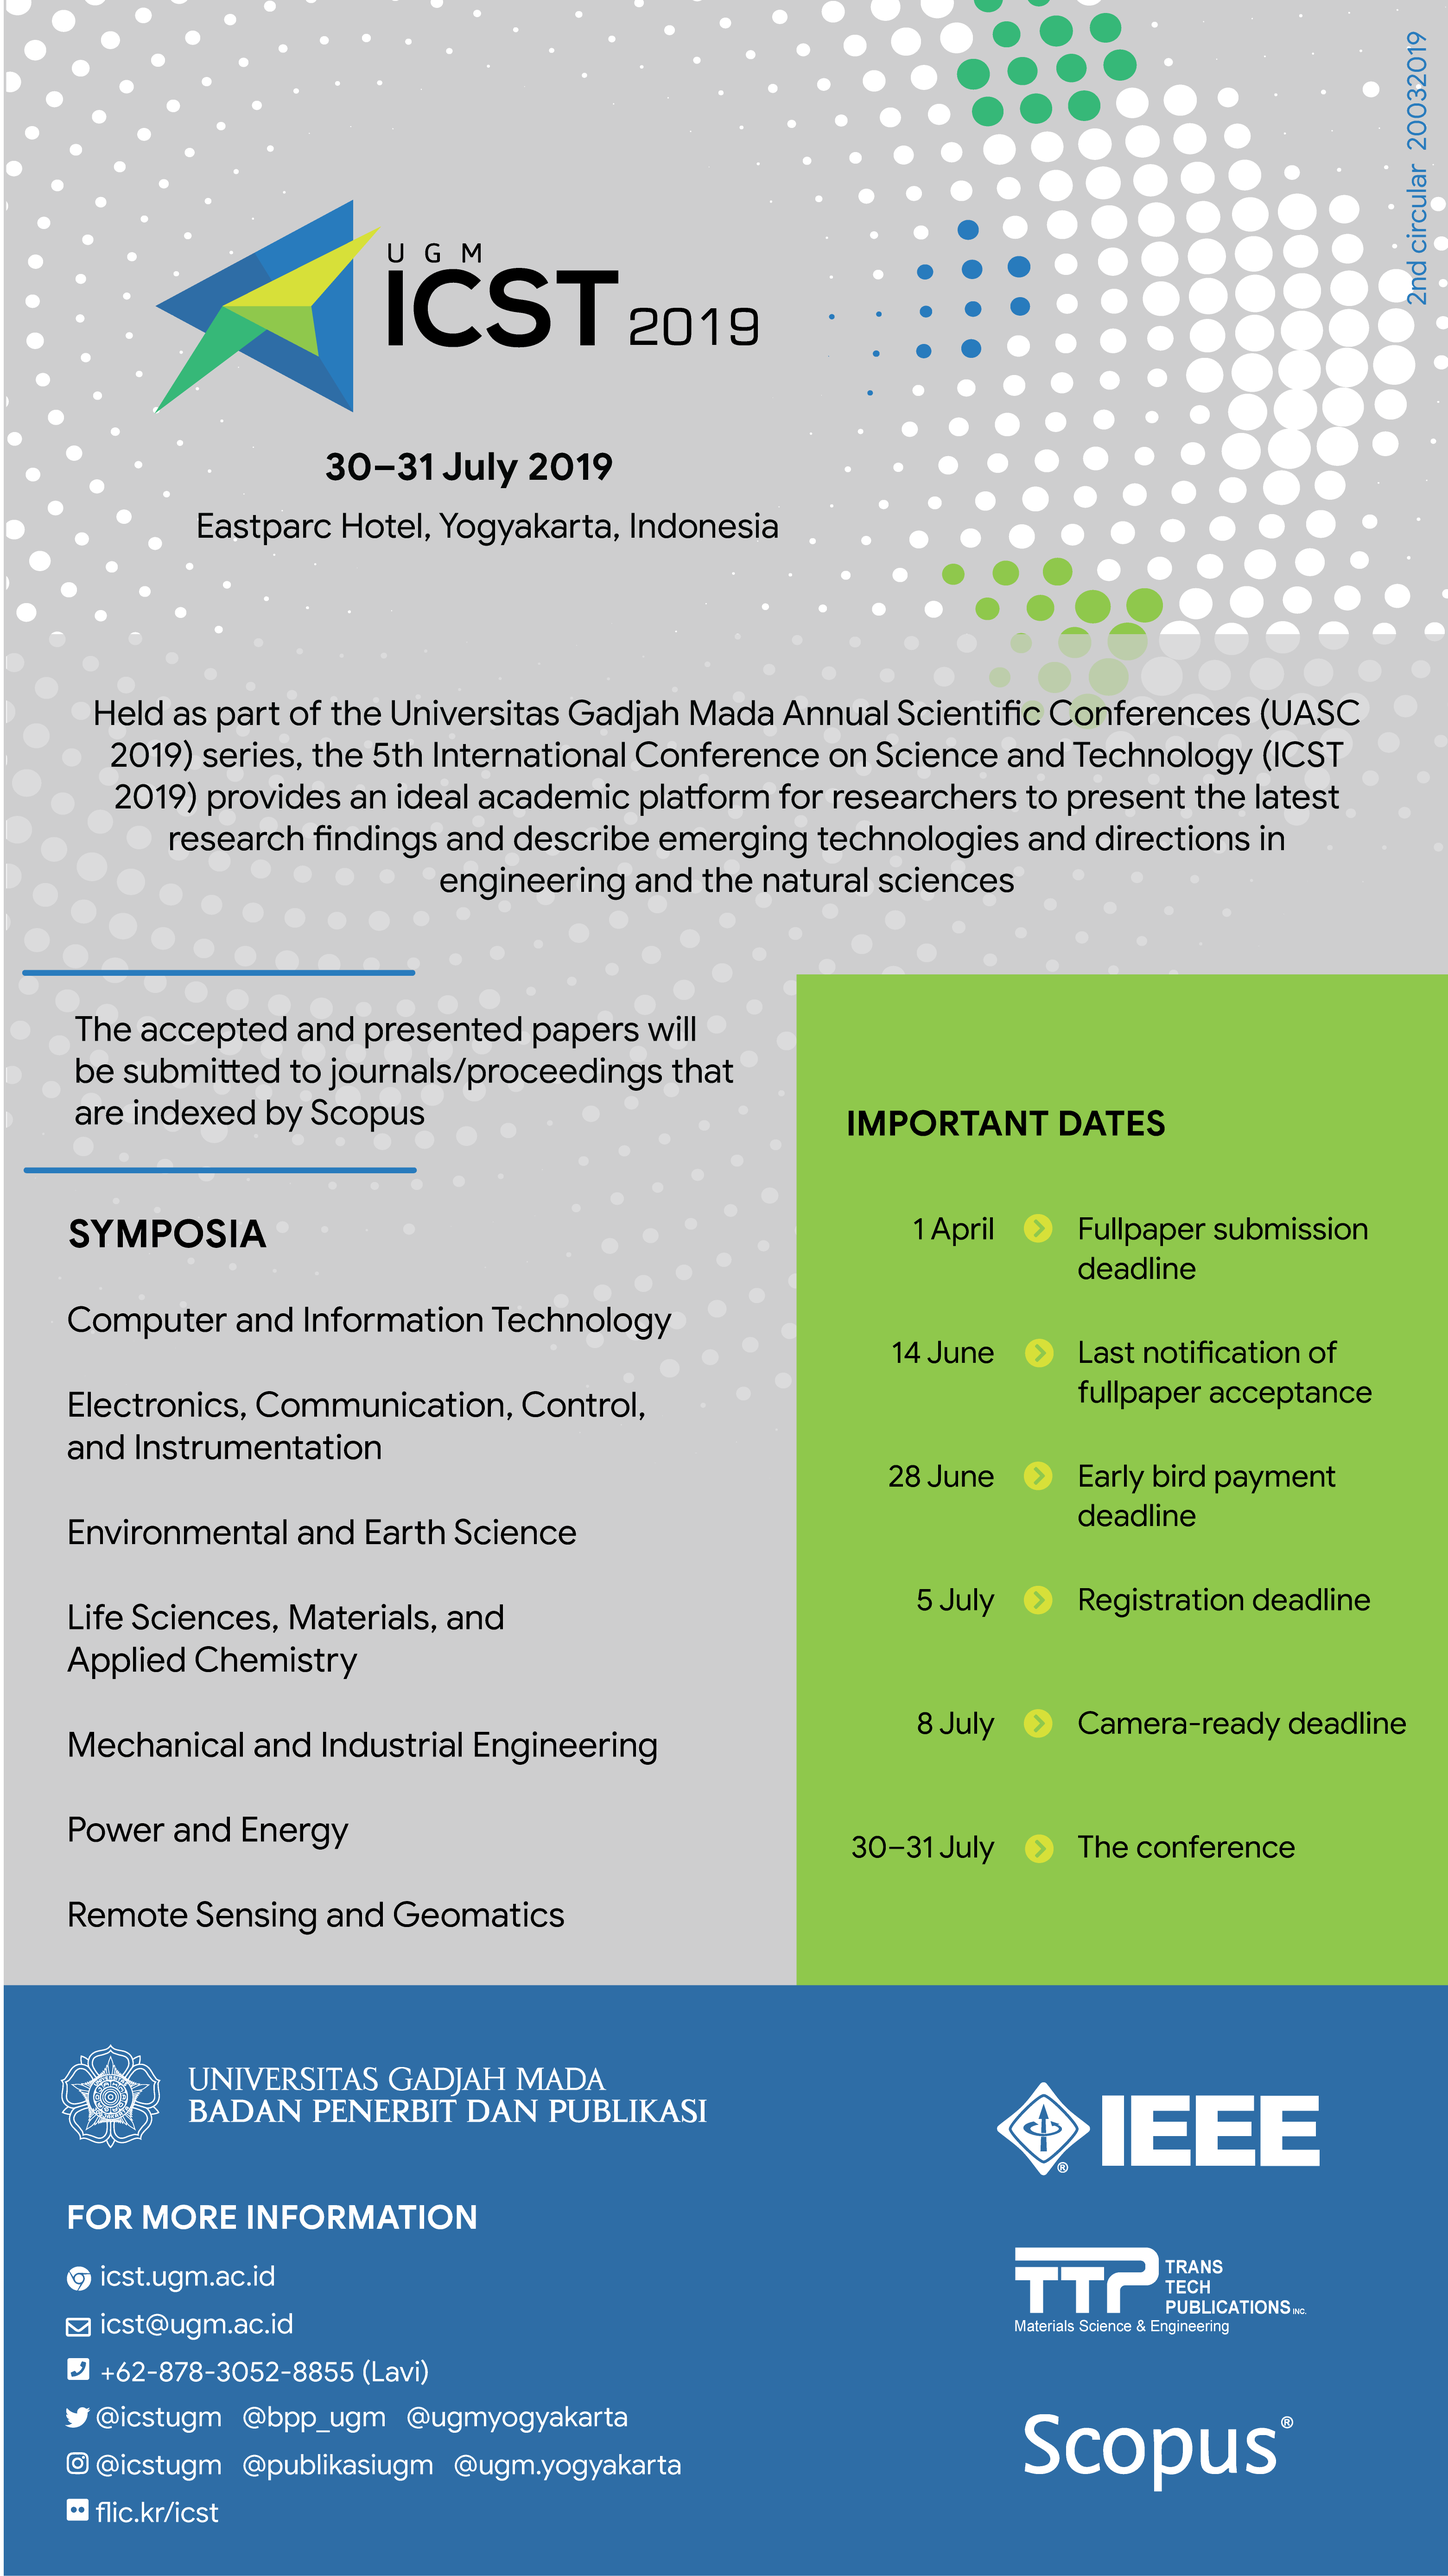
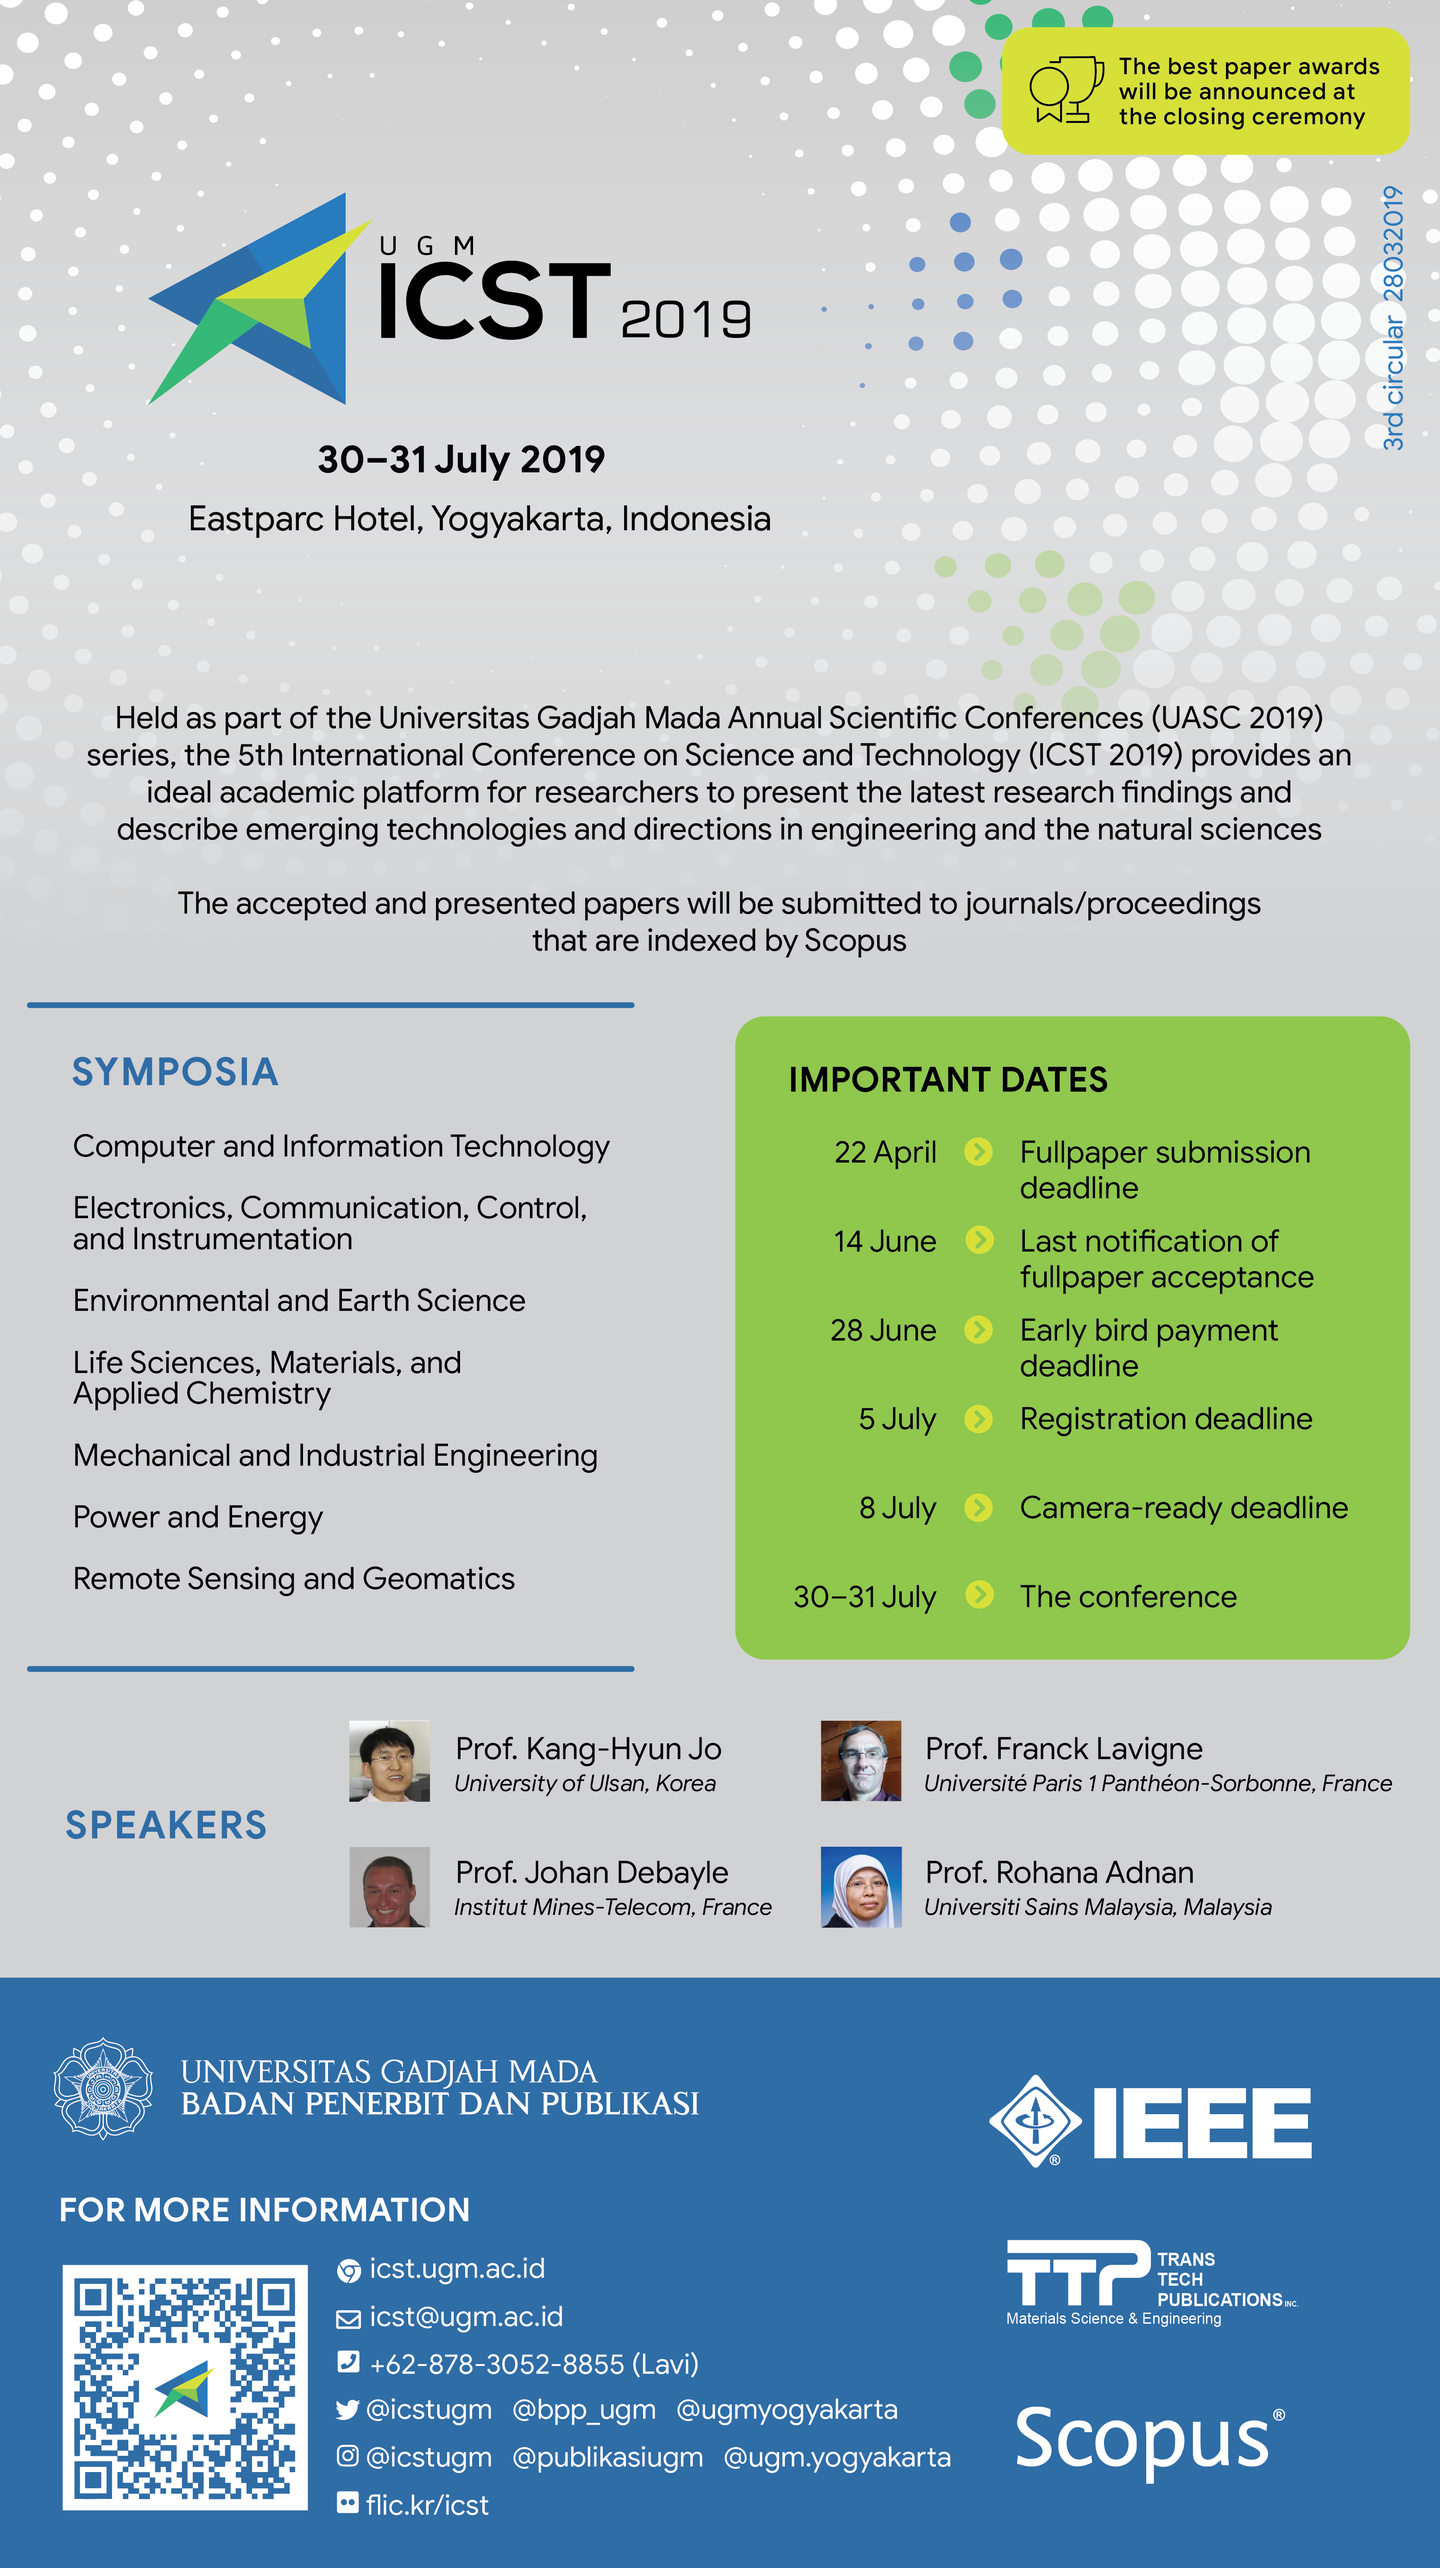
update life sciences pages, submit date, and update poster

diff --git a/article/symposia.html b/article/symposia.html
@@ -78,18 +78,18 @@
           </div>
         </li>
 
-        <!--PUBLICATIONS -->
-        <li class="nav-item dropdown">
-          <a class="nav-link dropdown-toggle" href="#" data-toggle="dropdown">Publications</a>
-          <div class="dropdown-menu" role="menu">
-            <a class="dropdown-item" href="publications.html">All publications</a>
-            <div class="dropdown-divider"></div>
-            <a class="dropdown-item" href="article/e3s.html">E3S Web of Conferences</a>
-            <a class="dropdown-item" href="ieee.html">IEEE Conference Proceeding</a>
-            <!-- <a class="dropdown-item" href="ijc.html">Indonesian Journal of Chemistry</a> -->
-            <a class="dropdown-item" href="msf.html">Materials Science Forum</a>
-          </div>
-        </li>
+         <!--PUBLICATIONS -->
+         <li class="nav-item dropdown"> 
+          <a class="nav-link dropdown-toggle" href="#" data-toggle="dropdown">Publications</a> 
+           <div class="dropdown-menu" role="menu"> 
+             <a class="dropdown-item" href="publications.html">All publications</a> 
+             <div class="dropdown-divider"></div> 
+             <a class="dropdown-item" href="ieee.html">IEEE</a> 
+             <a class="dropdown-item" href="indonesian-journal-of-chemistry.html">Indonesian Journal of Chemistry</a> 
+             <a class="dropdown-item" href="e3s.html">E3S Web of Conferences</a> 
+             <a class="dropdown-item" href="ttp.html">Trans Tech Publications</a> 
+           </div>
+         </li> 
 
         <!-- PRESENTERS -->
         <li class="nav-item dropdown">

diff --git a/article/life-sciences-materials-and-applied-chemistry.html b/article/life-sciences-materials-and-applied-chemistry.html
@@ -186,7 +186,14 @@
           <!-- Publication -->
           <h2>Publication</h2>
           <p>The accepted and presented papers will be published in the <a href="https://www.scientific.net/MSF.948/book">Materials Science Forum</a> indexed by Scopus.<br>
-          If you want to submit paper, please follow this <a href="author-guidelines.html">guidelines</a>, click <a href="submissions.html"><code>Register</code></a> button, and get the <a href="scientificnet-invitation.html">invitation</a> to upload your paper.</p>
+          If you want to submit paper. <br>
+            
+          <code>Action 1</code>
+          <text class="col-lg-10 col-sm-6">Please follow this <a href="author-guidelines.html">guidelines</a></text> <br>
+          <code>Action 2</code>
+          <text class="col-lg-10 col-sm-6">Click <a href="submissions.html"><code>Register</code></a> button </text><br>
+          <code>Action 3</code>
+          <text class="col-lg-10 col-sm-6">Get the <a href="scientificnet-invitation.html">invitation</a> to upload your paper.</text></p>
 
           <!--Committee-->
           <h2>Committee</h2>

diff --git a/index.html b/index.html
@@ -226,7 +226,7 @@
                     <hr class="mx-auto my-3" style="border-color: #DFDFDF; width: 70%;" />
                     <div class="container-fluid" style="padding: 0;">
                       <div class="row" style="font-weight: 300">
-                        <div class="col-4 text-right" style="color: rgba(255,255,255,1); padding-right: 0;">1 April</div>
+                        <div class="col-4 text-right" style="color: rgba(255,255,255,1); padding-right: 0;">22 April</div>
                         <div class="col-1 text-center" style="color: rgba(255,255,255,1); padding-left: 0; padding-right: 0"><i class="fa fa-arrow-circle-right fa-fw" aria-hidden="true"></i></div>
                         <div class="col-7" style="color: rgba(255,255,255,1); padding-left: 0;">Full paper submission deadline</div>
                       </div>

diff --git a/article/about.html b/article/about.html
@@ -201,9 +201,9 @@
         </p>
 
         <!-- KEYNOTE SPEAKERS -->
-        <!-- <h2>Speakers</h2>
+        <!--<h2>Speakers</h2>
         <div class="container">
-          <div class="row">
+          <div class="row display-flex">
 
             <div class="col-md-3 mb-4">
               <div class="card" style="max-width: 240px; margin: auto">
@@ -231,8 +231,7 @@
                 <img class="card-img-top" src="../images/speakers/rohana.jpg" alt="Assoc. Prof. Rohana Adnan" style="max-width: 100%">
                 <div class="card-footer bg-primary text-white"><b>Assoc. Prof. Rohana Adnan</b> <br>Universiti Sains Malaysia, Malaysia<br></div>
               </div>
-            </div>
-
+              </div>
           </div>
         </div> -->
 
